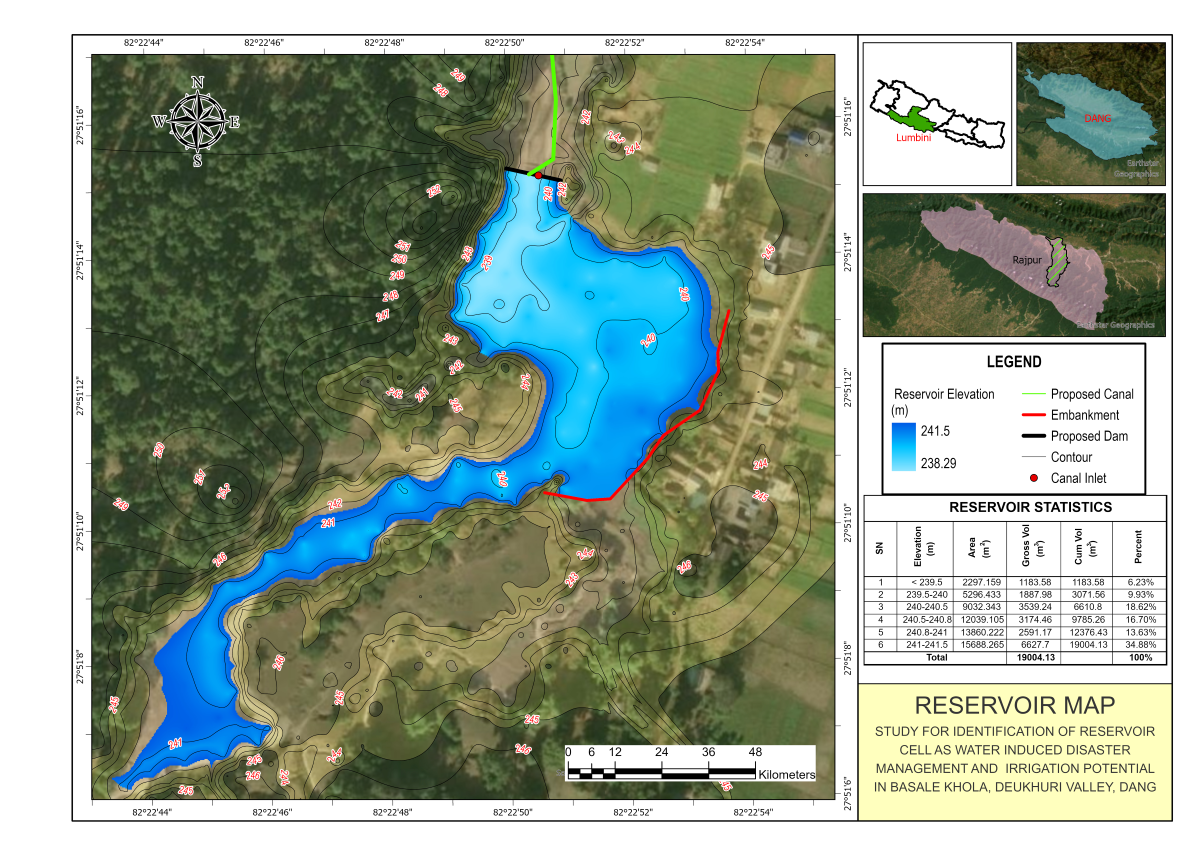
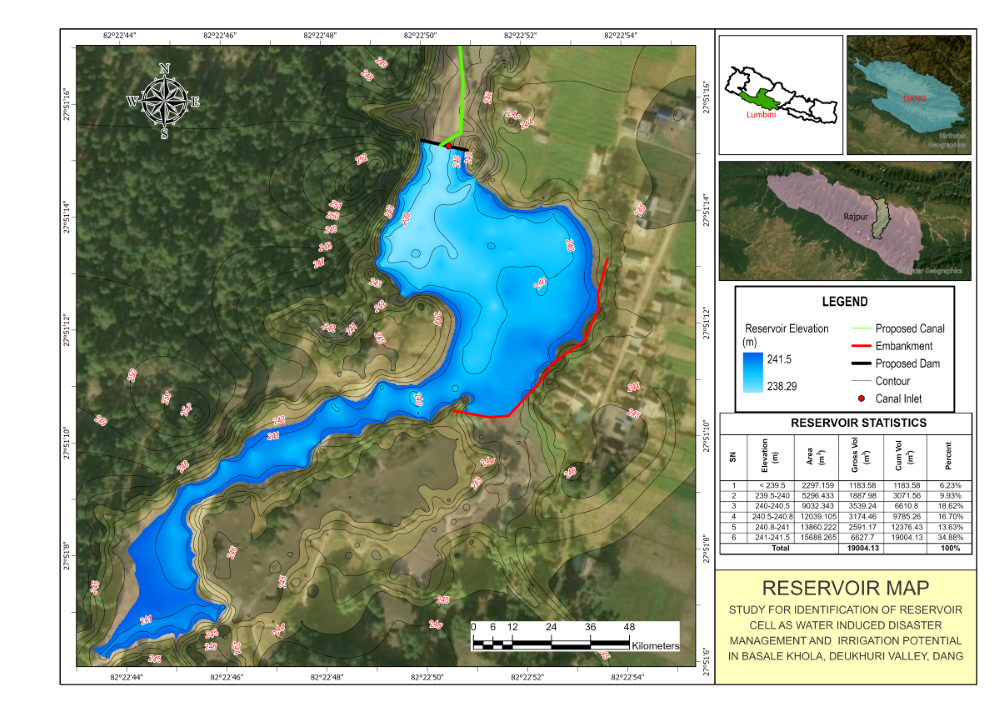
Update Project “1-study-for-identification-of-reservoir-cell-as-water-induced-disaster-management-and-irrigation-potential-deukhuri-valley-dang” +2

diff --git a/content/projects/1-study-for-identification-of-reservoir-cell-as-water-induced-disaster-management-and-irrigation-potential-deukhuri-valley-dang.md b/content/projects/1-study-for-identification-of-reservoir-cell-as-water-induced-disaster-management-and-irrigation-potential-deukhuri-valley-dang.md
@@ -3,7 +3,7 @@ name: Study for Identification of Reservoir cell as water induced disaster manag
 type: Irrigation
 place: Deukhuri Valley, Dang
 client: Sharma Engineering Consultancy Pvt. Ltd.
-fy: 2082/83
+fy: 2082/83 (2026)
 order: 1
 featured: true
 images:
